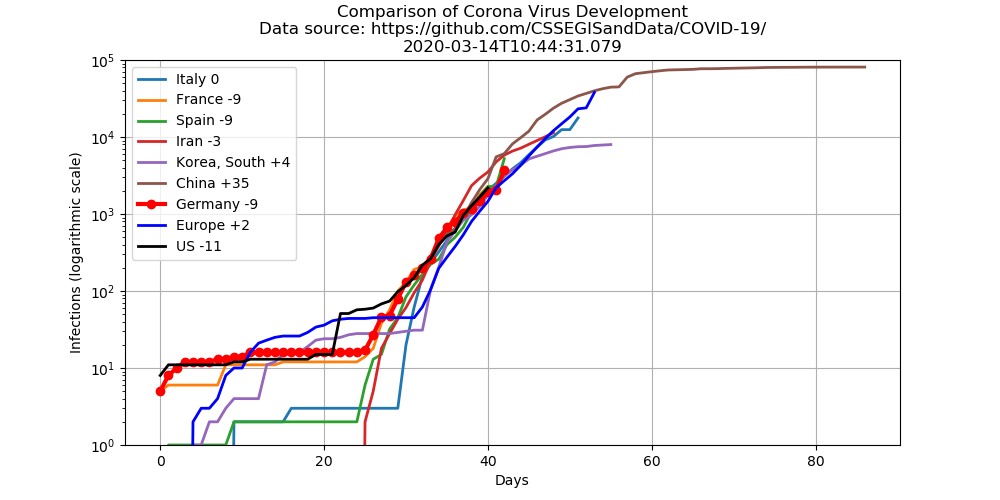
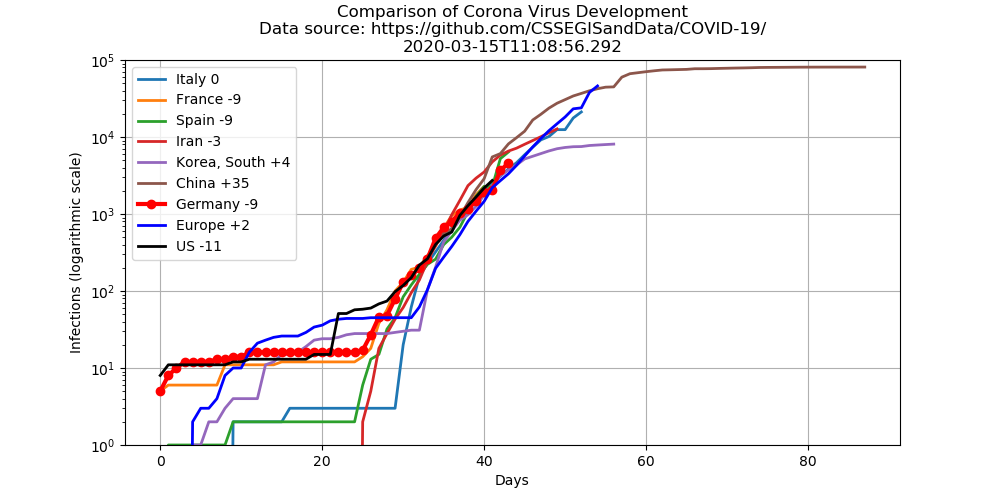
data update

diff --git a/README.md b/README.md
@@ -33,5 +33,5 @@ just nine days behind.
 ## Logarithmic scale
 ![](infected.png) 
 
-This is the same plot, just with an logarithmic scale of the y-axis.
+This is the same plot, just with a logarithmic scale of the y-axis.
 
